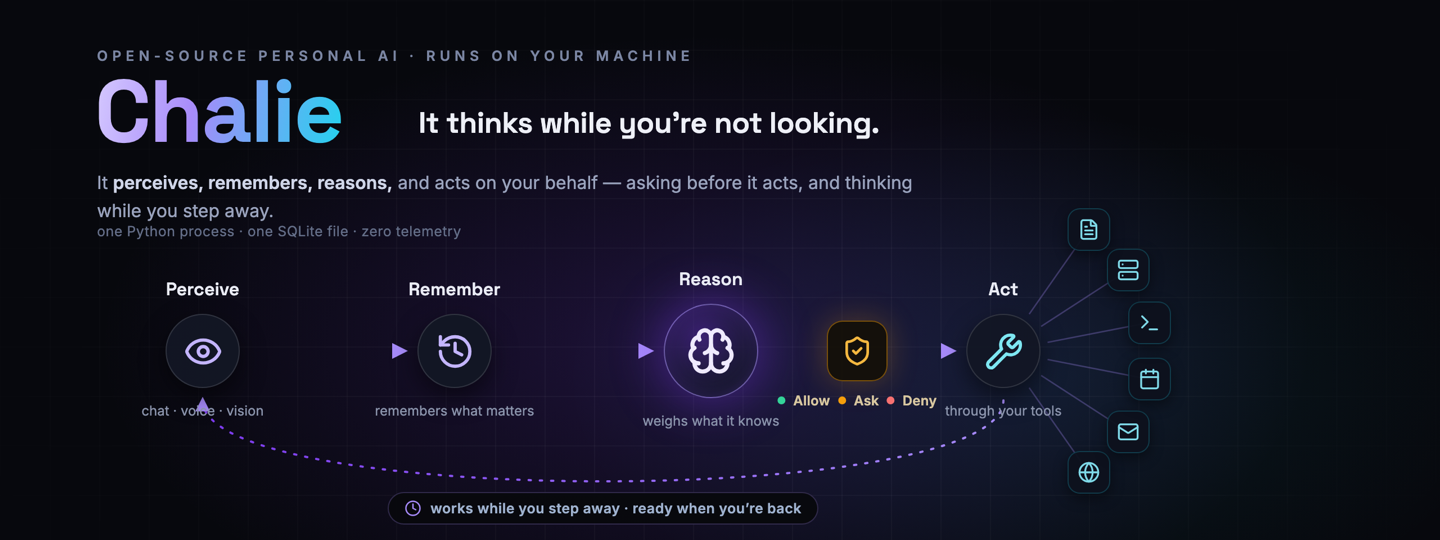
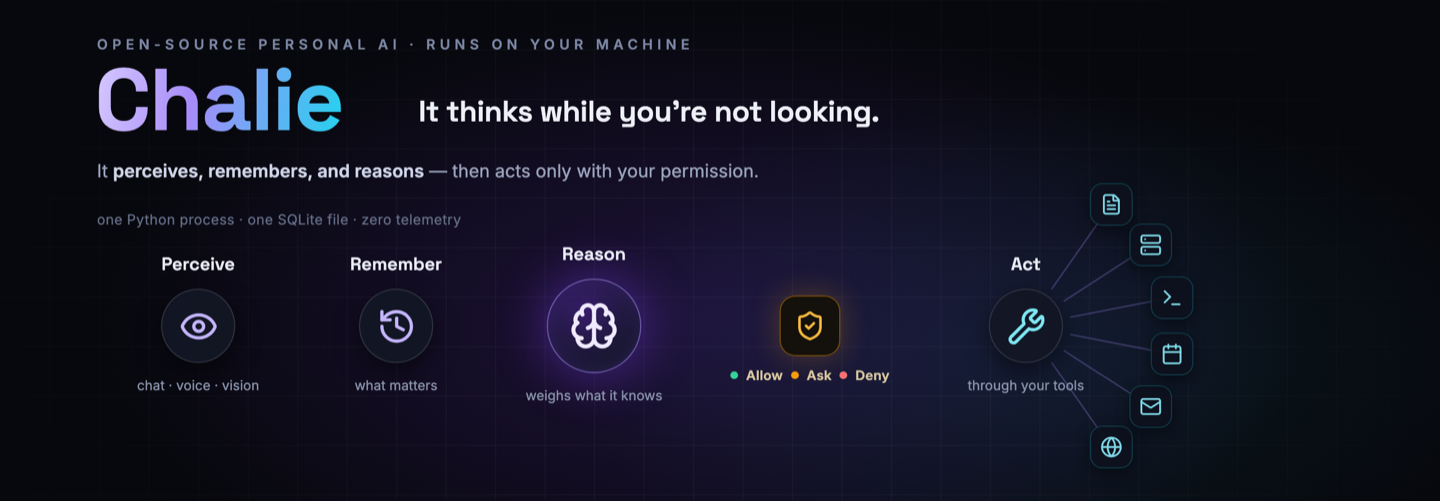
docs(readme): tighten reasoning-loop hero, condense copy, soften 'continuous' claim
- Cluster Perceive/Remember/Reason and open space around the Allow/Ask/Deny gate
- Drop the Act->Perceive return line and its loop chip; condense the lede to one line
- Compact the canvas (1440x501) so there's no dead band below the diagram
- Soften the body 'continuous reasoning engine' to the idle-gated 'keeps working while you step away'

diff --git a/README.md b/README.md
@@ -27,7 +27,7 @@ chalie     # → http://localhost:31025
 
 ## Why Chalie is different
 
-Most AI tools forget you the moment you close the tab. Chalie is a **continuous reasoning engine** that runs on your own machine: it remembers what matters and lets the rest decay, works in the background while you're away, and acts only behind an **Allow / Ask / Deny** policy spanning you, its own background work, and other agents. One SQLite file, credentials encrypted at rest, zero telemetry, encrypted whole-instance backup — no Redis, no Postgres, no queue, just one Python process.
+Most AI tools forget you the moment you close the tab. Chalie runs on your own machine as a **reasoning engine that keeps working while you step away**: it remembers what matters and lets the rest decay, and acts only behind an **Allow / Ask / Deny** policy spanning you, its own background work, and other agents. One SQLite file, credentials encrypted at rest, zero telemetry, encrypted whole-instance backup — no Redis, no Postgres, no queue, just one Python process.
 
 ## What it can do today
 
